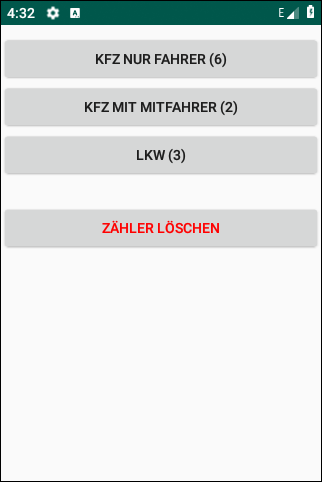
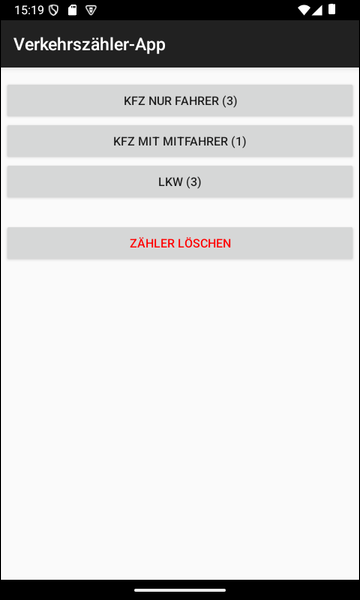
ActionBar dazu, neue Screenshots

diff --git a/app/src/main/java/de/mide/verkehrszaehler/MainActivity.java b/app/src/main/java/de/mide/verkehrszaehler/MainActivity.java
@@ -1,6 +1,7 @@
 package de.mide.verkehrszaehler;
 
-import android.app.Activity;
+import androidx.appcompat.app.ActionBar;
+import androidx.appcompat.app.AppCompatActivity;
 import android.app.AlertDialog;
 import android.content.DialogInterface;
 import android.database.SQLException;
@@ -21,8 +22,8 @@ import java.util.HashMap;
  *
  * This project is licensed under the terms of the BSD 3-Clause License.
  */
-public class MainActivity extends Activity
-        implements DialogInterface.OnClickListener {
+public class MainActivity extends AppCompatActivity
+                          implements DialogInterface.OnClickListener {
 
     /** Tag für das Schreiben von Log-Nachrichten. */
     private static final String TAG4LOGGING = "Verkehrszaehler";
@@ -60,6 +61,8 @@ public class MainActivity extends Activity
         _buttonKfzMitfahrer = findViewById( R.id.buttonKfzMitfahrer );
         _buttonLkw          = findViewById( R.id.buttonLkw          );
 
+        actionBarKonfigurieren();
+
         try {
 
             _datenbankManager = new DatenbankManager(this);
@@ -77,6 +80,23 @@ public class MainActivity extends Activity
 
             zeigeDialog("Fehler", fehlernachricht);
         }
+    }
+
+
+    /**
+     * Titel der ActionBar setzen.
+     */
+    private void actionBarKonfigurieren() {
+
+        ActionBar actionBar = getSupportActionBar();
+        if (actionBar == null) {
+
+            Toast.makeText(this, "Keine ActionBar vorhanden.", Toast.LENGTH_LONG).show();
+            return;
+        }
+
+        actionBar.setTitle( R.string.app_name );
+        //actionBar.setSubtitle(R.string.app_untertitel);
     }
 
 
